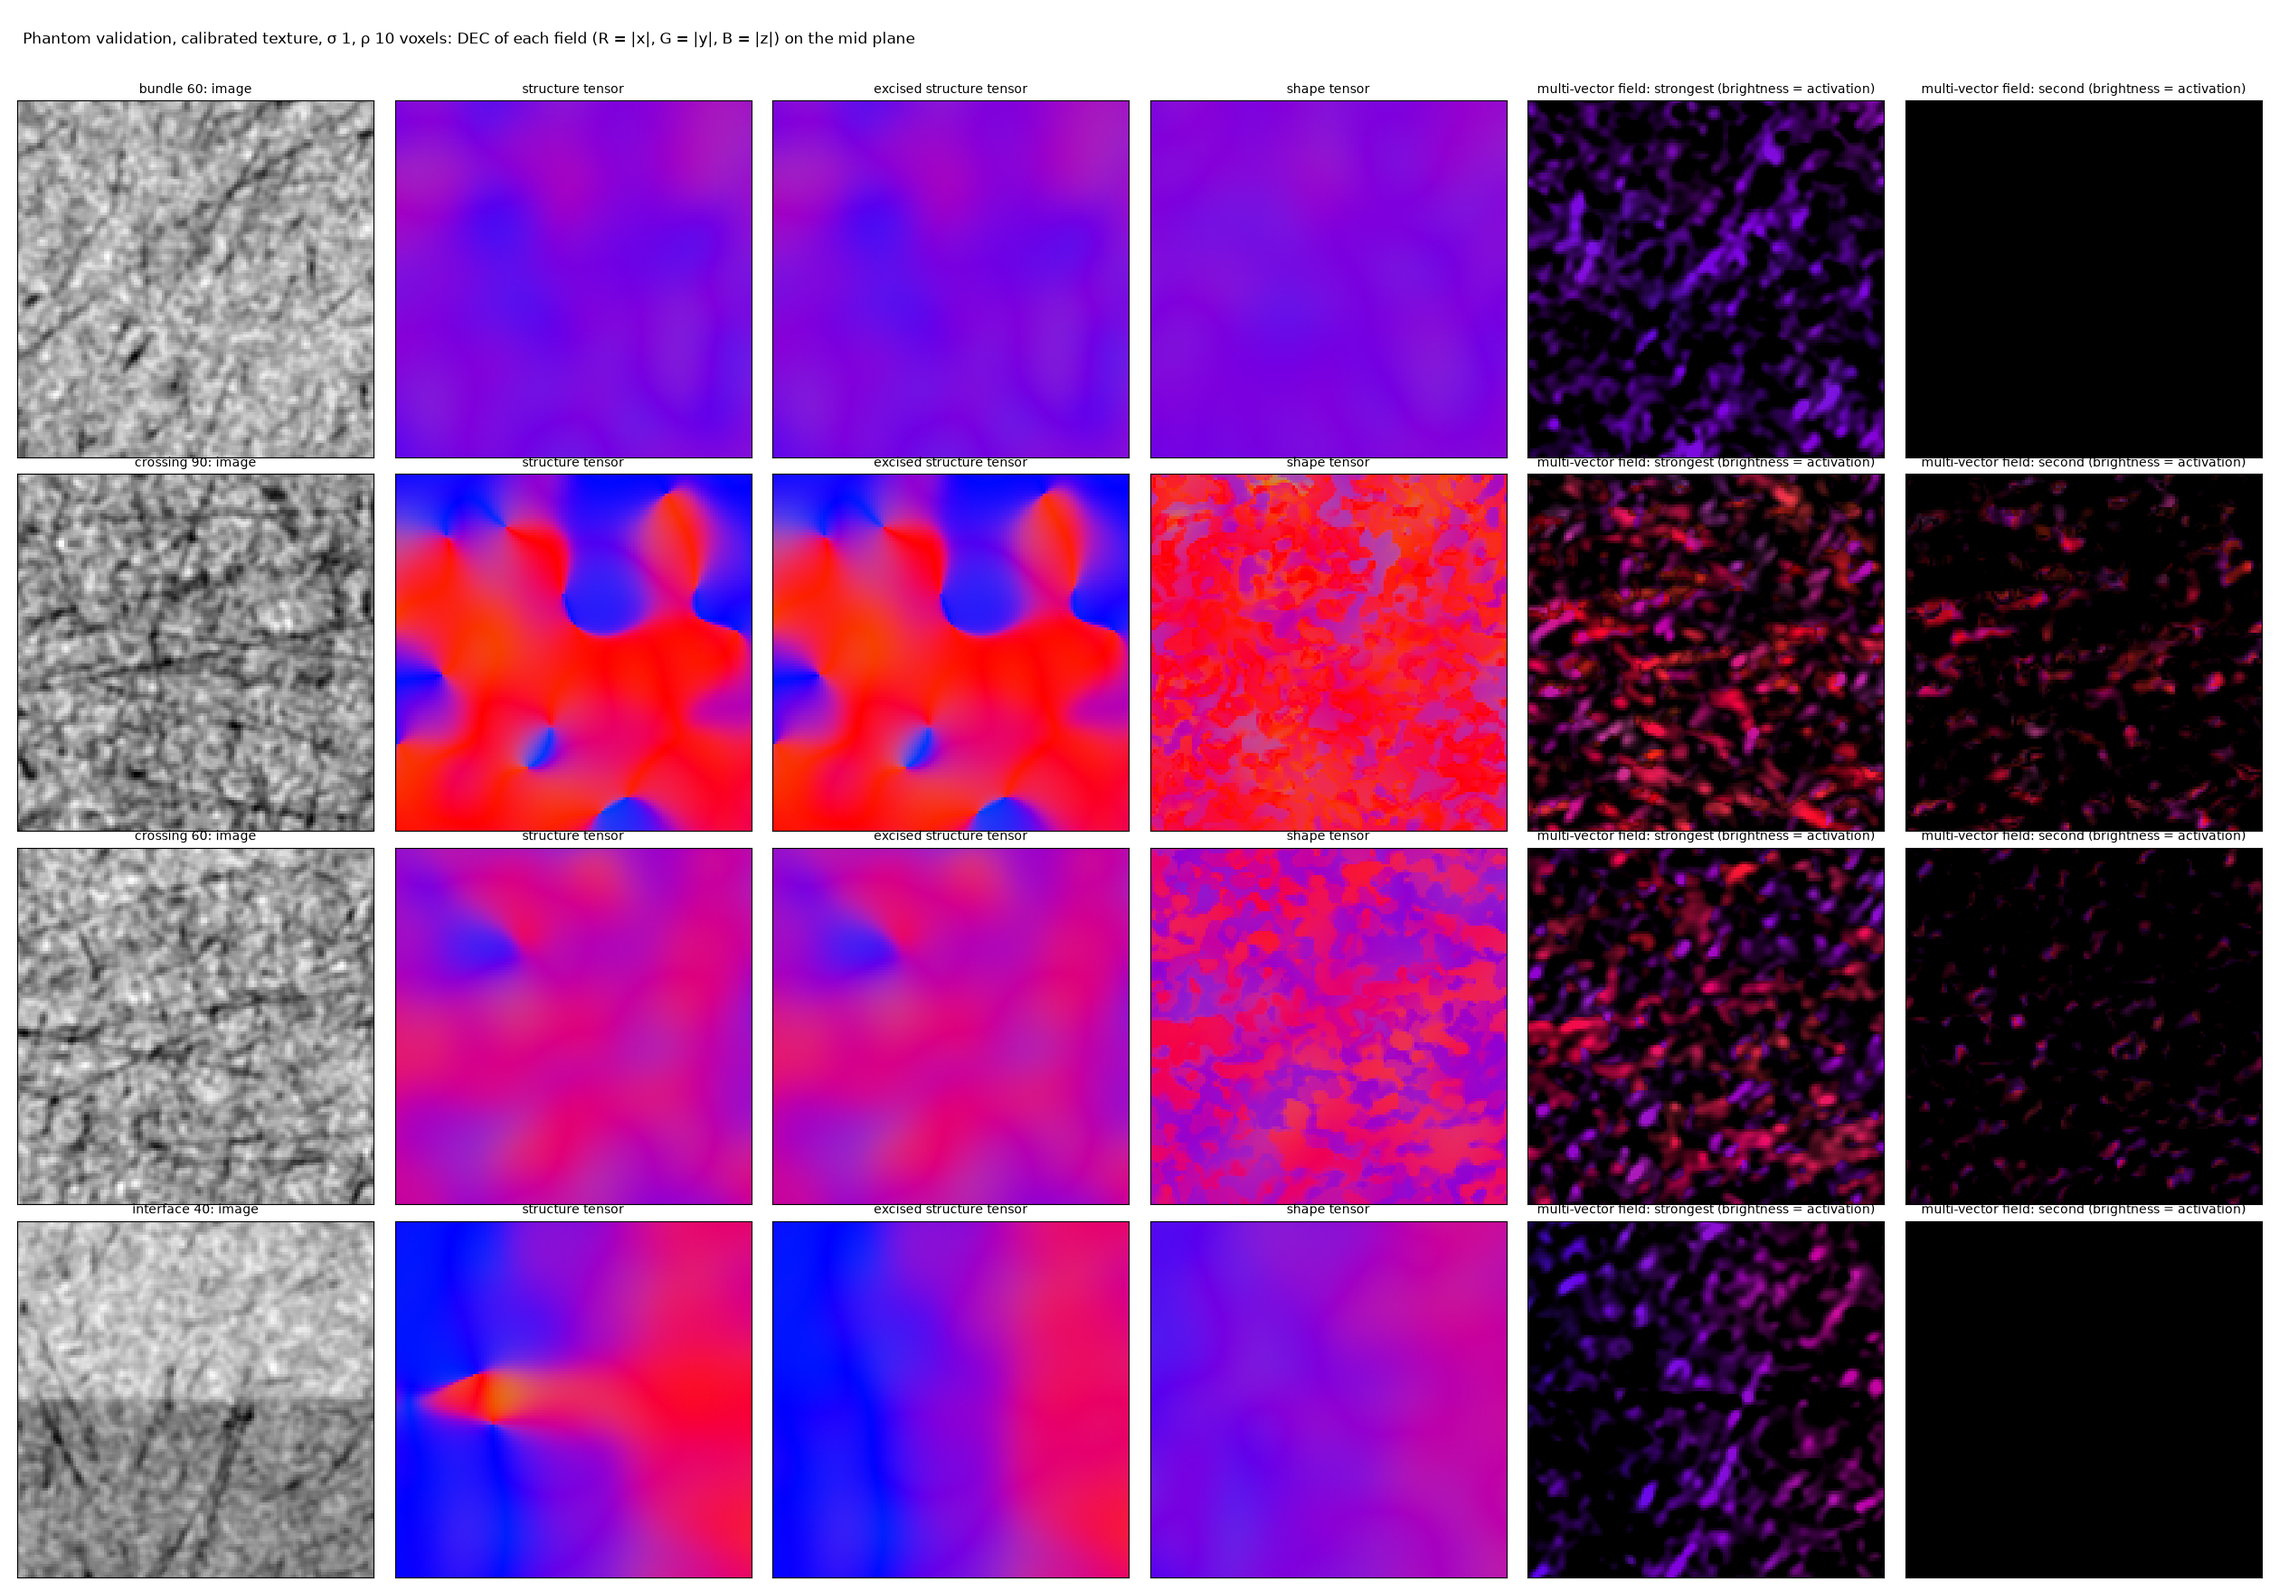
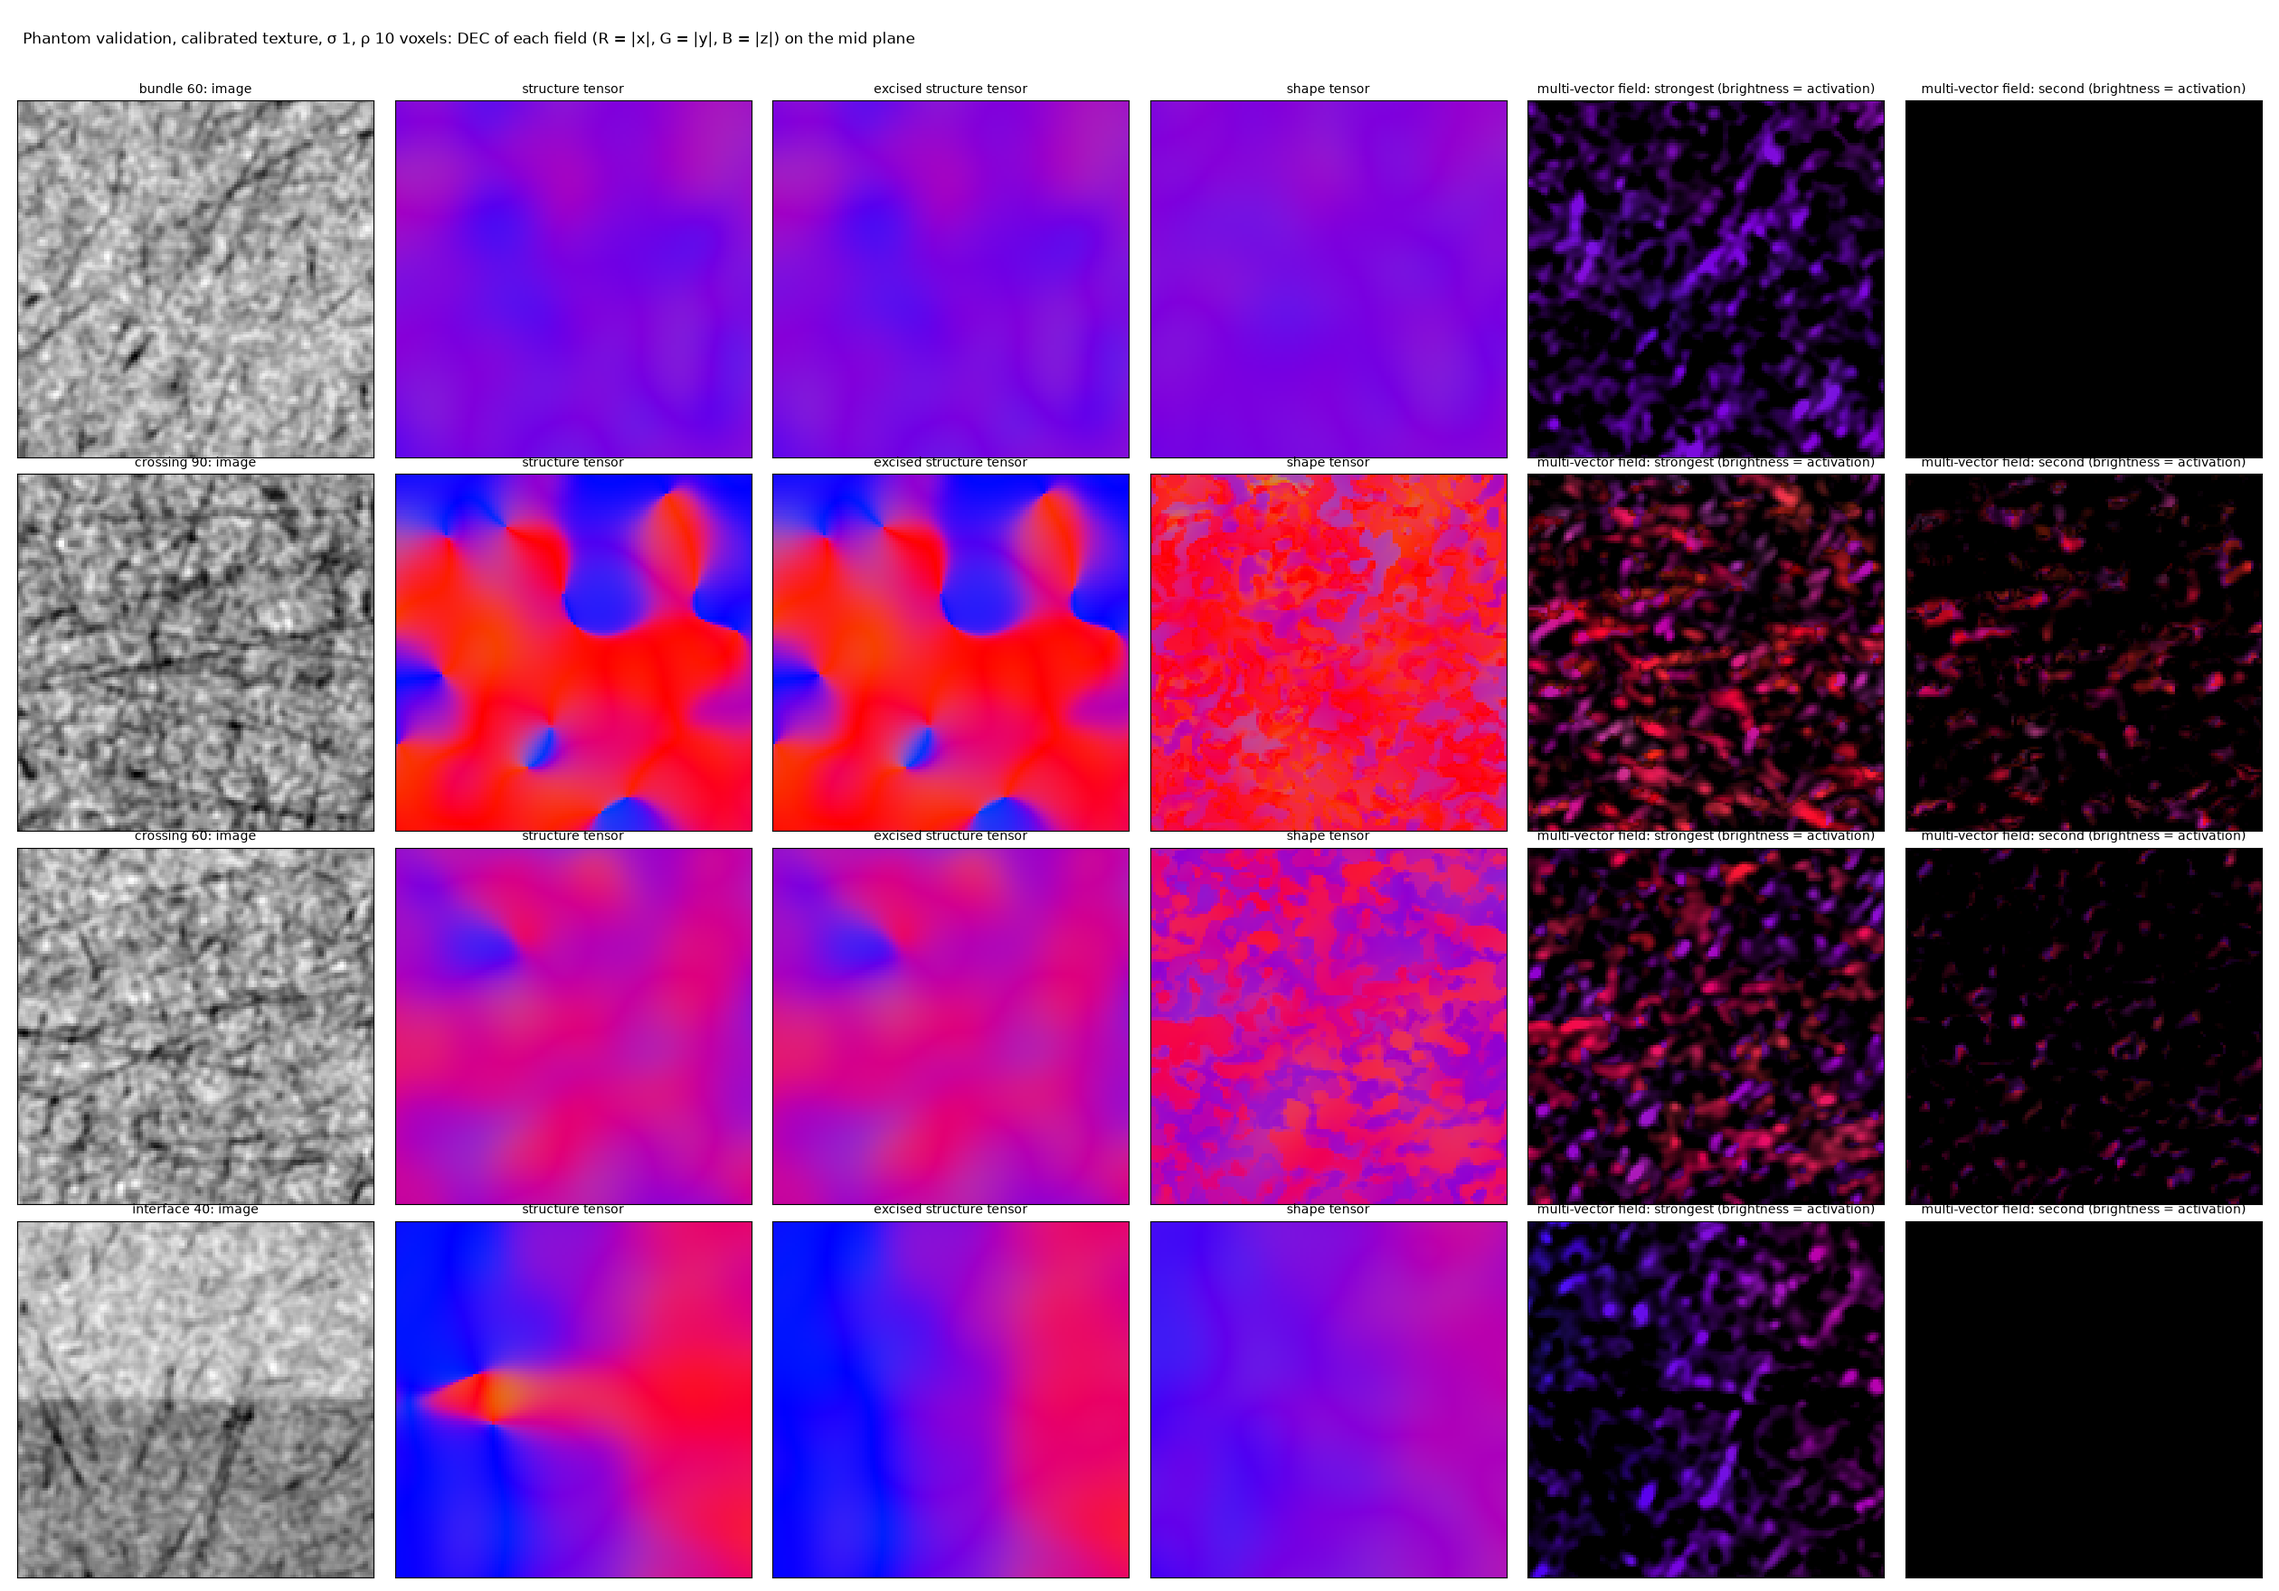
Final validation numbers of the release review; README wording on crossings

Changed region(s): [[0.65, 0.75, 0.8357, 1.0]]

diff --git a/docs/validation.md b/docs/validation.md
@@ -45,30 +45,32 @@ seed.
 | case | plain structure tensor | excised structure tensor | shape tensor, single | shape tensor, multi (pair) |
 |---|---|---|---|---|
 | coherent: bundle | 1.4 (1.00) | 1.4 (1.00) | 1.3 (1.00) | — |
-| coherent: crossing 90° | 9.6 to the nearest (0.68) | 9.6 (0.68) | 19.3 (0.29) | 15.9 (0.37); both within 15° at 12% |
-| coherent: crossing 60° | 25.1 (0.03) | 25.1 (0.03) | 20.9 (0.32) | 14.9 (0.52); both within 15° at 0% |
-| coherent: interface, within 0.1 mm of the step | 5.2 (0.93) | 4.4 (0.94) | 6.7 (0.76) | — |
-| calibrated: bundle | 3.9 (1.00) | 3.9 (1.00) | 3.5 (1.00) | — |
+| coherent: crossing 90° | 9.6 to the nearest (0.68) | 9.6 (0.68) | 20.3 (0.33) | 20.4 (0.28); both within 15° at 12% |
+| coherent: crossing 60° | 25.1 (0.03) | 25.1 (0.03) | 20.9 (0.32) | 14.9 (0.51); both within 15° at 0% |
+| coherent: interface, within 0.1 mm of the step | 5.2 (0.93) | 4.4 (0.94) | 5.8 (0.83) | — |
+| coherent: interface, beyond 0.5 mm | 2.2 (0.97) | 2.3 (0.97) | 6.3 (0.88) | — |
+| calibrated: bundle | 3.9 (1.00) | 3.9 (1.00) | 2.4 (1.00) | — |
 | calibrated: crossing 90° | 20.8 (0.35) | 20.9 (0.35) | 24.6 (0.33) | 35.6 (0.00) |
-| calibrated: crossing 60° | 24.3 (0.10) | 24.2 (0.10) | 24.5 (0.16) | 15.4 (0.40) |
-| calibrated: interface, within 0.1 mm of the step | 35.4 (0.13) | 6.3 (0.93) | 14.7 (0.49) | — |
-| calibrated: interface, beyond 0.5 mm | 5.5 (0.94) | 5.5 (0.94) | 15.2 (0.49) | — |
+| calibrated: crossing 60° | 24.3 (0.10) | 24.2 (0.10) | 22.7 (0.26) | 15.7 (0.35) |
+| calibrated: interface, within 0.1 mm of the step | 35.4 (0.13) | 6.3 (0.93) | 18.1 (0.34) | — |
+| calibrated: interface, beyond 0.5 mm | 5.5 (0.94) | 5.5 (0.94) | 18.0 (0.36) | — |
 
 ## What to take from it
 
 - The excision is the remedy for interfaces, at any texture; it is in the baseline and inside every population
   tensor.
 - Finding the populations works where the fibres within a population are coherent: one on a bundle, two on a
-  90° or 60° crossing, on every seed. Giving each its direction per voxel does not yet: the features respond
-  unequally to orientations relative to the voxel grid (the readers are gain-normalised for that, but the
-  per-voxel layers are not), and on this crossing — one population along the grid's x axis, one along z — the
-  second population's vector is drawn towards the first. On a crossing symmetric about the diagonal the same
-  pipeline reached 10° for the pair with both populations within 15° at 96% of voxels (`notes/release_plan.md`).
-  Until that is fixed, trust the single field, the population count and the activation weights; take the
-  second vector's direction as indicative.
+  60° crossing on every seed, two or three on a 90° crossing. Giving each its direction per voxel does not yet:
+  the features respond unequally to orientations relative to the voxel grid (the readers are gain-normalised for
+  that, but the per-voxel layers are not), and on this crossing — one population along the grid's x axis, one
+  along z — the second population's vector is drawn towards the first. On a crossing symmetric about the diagonal
+  the same pipeline reached 9–10° for the pair with both populations within 15° at 87–96% of voxels
+  (`notes/results_log.md` §27). Until that is fixed, trust the single field, the population count and the
+  activation weights; take the second vector's direction as indicative.
 - Where the data's dispersion is that of the HiP-CT crop, the pipeline finds one population on bundles and its
   single field is the (excised) structure tensor with the population's weighting; crossings are not resolved.
-- The remaining weakness on single-population tissue is the weighting itself: where a population's activation is
-  low (a band of another orientation, read as the same population), its tensor is built from few gradients and
-  the single field is noisier than the excised tensor. A larger floor on the weight, or populations per sub-window,
-  are the candidate remedies (`notes/release_plan.md`).
+- The remaining weakness on single-population tissue is the three-band interface at the calibrated texture, where
+  one population is found for three bands and the single field is noisier than the excised tensor (18° against
+  6°); the weight floor is not the lever (`notes/results_log.md` §27), the population count per region is. On
+  real tissue, where orientations vary smoothly, the real block's single field agrees with the excised tensor to
+  6° where the tensor is confident.

diff --git a/README.md b/README.md
@@ -62,9 +62,12 @@ the real crop):
 - At a **tissue step** the plain structure tensor is dragged into the boundary; the excision removes the effect,
   and the pipeline inherits it (the excision is inside every population tensor).
 - At a **crossing** the structure tensor reports the bisector. With tight bundles the pipeline finds the two
-  populations and gives each its own direction; with the real crop's fibre dispersion (20° within a population)
-  the populations are no longer separable per voxel, and the single field is at best a better bisector.
-- On a **single bundle** the single field reproduces the structure tensor.
+  populations on every seed and carries two vectors; their per-voxel directions are accurate on some orientations
+  relative to the voxel grid and not on others (a property of the network's features, reported with its numbers
+  in the validation). With the real crop's fibre dispersion (20° within a population) the populations are no
+  longer separable per voxel.
+- On a **single bundle**, and on the real block where the structure tensor is confident, the single field
+  reproduces the excised structure tensor.
 
 The numbers are in `docs/validation.md`; the research behind every design decision, with all its numbers, in
 `notes/`.
